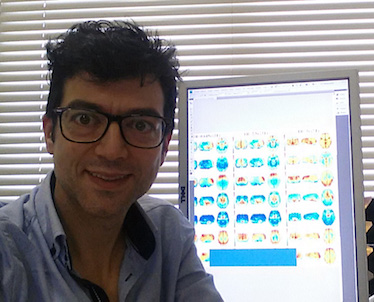
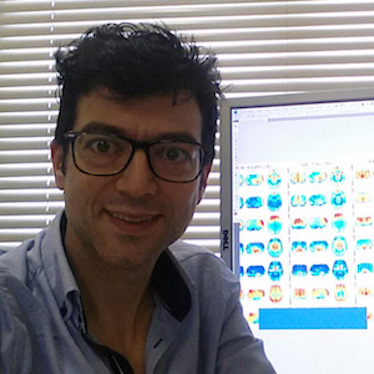
new picture sizes

diff --git a/_posts/2018-03-04-speakers.md b/_posts/2018-03-04-speakers.md
@@ -20,7 +20,7 @@ Daniele is an associate professor in the department of Data Analysis of the Facu
 
 
 <a name="veronika"></a>
-{% include speaker-card.html avatarurl="veronika.png" profilename="Veronika Cheplygina, PhD " affiliation="Medical Image Analysis group,<br>Eindhoven University of Technology,<br>Eindhoven, The Netherlands" homepage="http://www.veronikach.com" twitter="vcheplygina"%}
+{% include speaker-card.html avatarurl="veronika.jpg" profilename="Veronika Cheplygina, PhD " affiliation="Medical Image Analysis group,<br>Eindhoven University of Technology,<br>Eindhoven, The Netherlands" homepage="http://www.veronikach.com" twitter="vcheplygina"%}
 
 #### Introduction to image segmentation with Python 
 **Abstract:**
